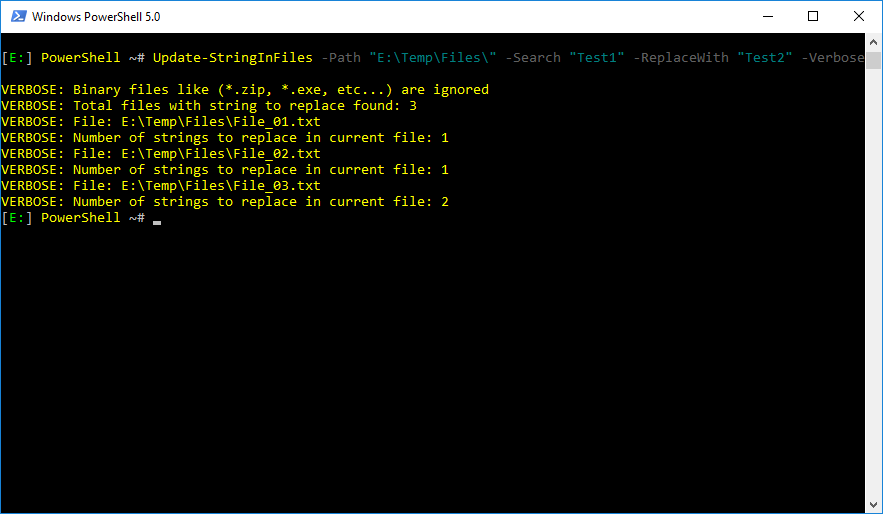
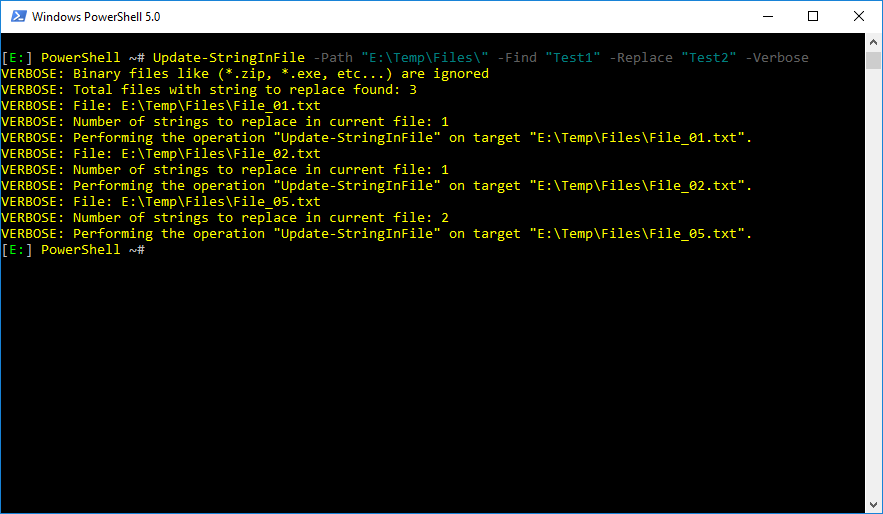
Parameter changed / code improved

Changed region(s): [[0.0, 0.0934, 0.9785, 0.2802], [0.0, 0.3424, 0.8562, 0.4981]]

diff --git a/Documentation/Update-StringInFile.README.md b/Documentation/Update-StringInFile.README.md
@@ -15,28 +15,13 @@ Replace a string in one or multiple files.
 ## Syntax
 
 ```powershell
-Update-StringInFile [-Path] <String> [-Find] <String> [-ReplaceWith] <String> [[-CaseSensitive]] [<CommonParameters>]
+Update-StringInFile [-Path] <String> [-Find] <String> [-Replace] <String> [[-CaseSensitive]] [<CommonParameters>]
 ```
 
 ## Example 1
 
 ```powershell
-PS> Update-StringInFile -Path E:\Temp\Files\ -Find "Test1" -ReplaceWith "Test2" -Verbose
-       
-VERBOSE: Binary files like (*.zip, *.exe, etc...) are ignored
-VERBOSE: Total files with string to replace found: 3
-VERBOSE: Current file: E:\Temp\Files\File_01.txt
-VERBOSE: Number of strings to replace in current file: 1
-VERBOSE: Current file: E:\Temp\Files\File_02.txt
-VERBOSE: Number of strings to replace in current file: 1
-VERBOSE: Current file: E:\Temp\Files\File_03.txt
-VERBOSE: Number of strings to replace in current file: 2
-```
-
-## Example 2
-
-```powershell
-PS> Update-StringInFile -Path E:\Temp\Files\ -Find "Test1" -ReplaceWith "Test2" -Verbose
+PS> Update-StringInFile -Path E:\Temp\Files\ -Find "Test1" -Replace "Test2" -Verbose
        
 VERBOSE: Binary files like (*.zip, *.exe, etc...) are ignored
 VERBOSE: Total files with string to replace found: 3
